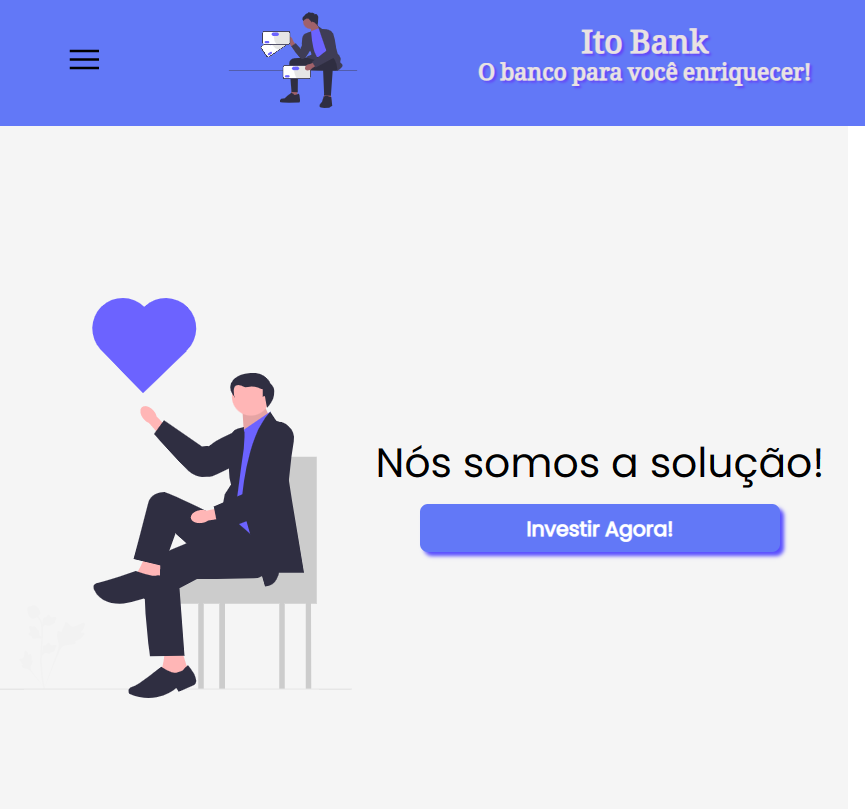
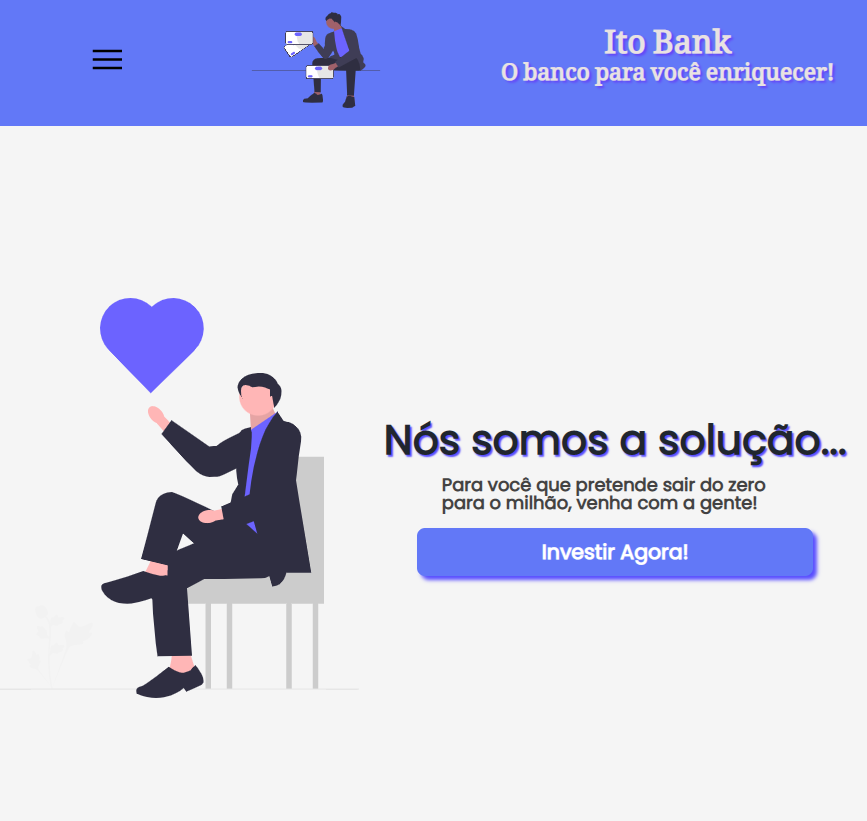
Header

diff --git a/src/components/Header/index.jsx b/src/components/Header/index.jsx
@@ -22,9 +22,11 @@ export function Header() {
         <img height="500" src="../../../src/assets/imgs/home.svg" alt="" />
         <Flan>
             <Legend>
-                Nós somos a solução!
+                Nós somos a solução...
             </Legend>
-
+            <Span>
+                Para você que pretende sair do zero para o milhão, venha com a gente!
+            </Span>
             <Invest>
                 Investir Agora!
             </Invest>
@@ -89,7 +91,7 @@ const Cover = styled('div', {
 });
 
 const Flan = styled('div', {
-    height: '20%',
+    height: '25%',
     display: 'flex',
     flexDirection: 'column',
     alignItems: 'center',
@@ -98,10 +100,20 @@ const Flan = styled('div', {
 });
 
 const Legend = styled('legend', {
-    fontSize: '3.2rem',
-    fontFamily: '$Poppins'
+  fontSize: "3.2rem",
+  fontFamily: "$Poppins",
+  fontWeight: "bold",
+  color: "$lightBlack",
+  textShadow: "2px 2px 2px #584dff",
 });
 
+const Span = styled("span", {
+  width: '70%',
+  fontSize: '1.4rem',
+  fontFamily: "$Poppins",
+  fontWeight: '700',
+  color: '$darkGrey'
+});
 const Invest = styled('button', {
     fontSize: '1.6rem',
     fontFamily: '$Poppins',

diff --git a/stitches.config.js b/stitches.config.js
@@ -15,16 +15,12 @@ export const {
     colors: {
       gray400: "gainsboro",
       gray500: "lightgray",
+      lightGrey: "#E9E8E8",
+      darkGrey: "#434242",
+      lightBlack: "#20262E",
       aquaWhite: "#F5F5F5",
       aquaGrey: "#E8E2E2",
       blue400: "#6278F7",
-      programacao: "#57C278",
-      frontEnd: "#82CFFA",
-      dataScience: "#A6D157",
-      devops: "#E06B69",
-      ux: "#DB6EBF",
-      mobile: "#FFBA05",
-      inovacao: "#FF8A29",
     },
 
     fonts: {
